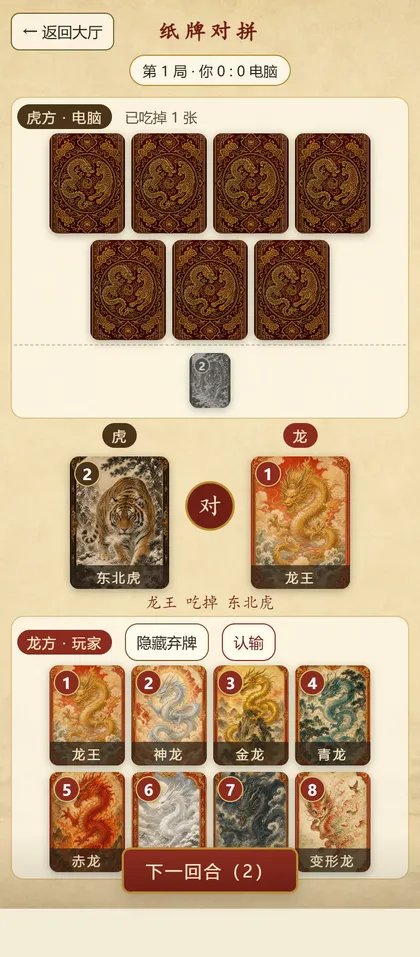
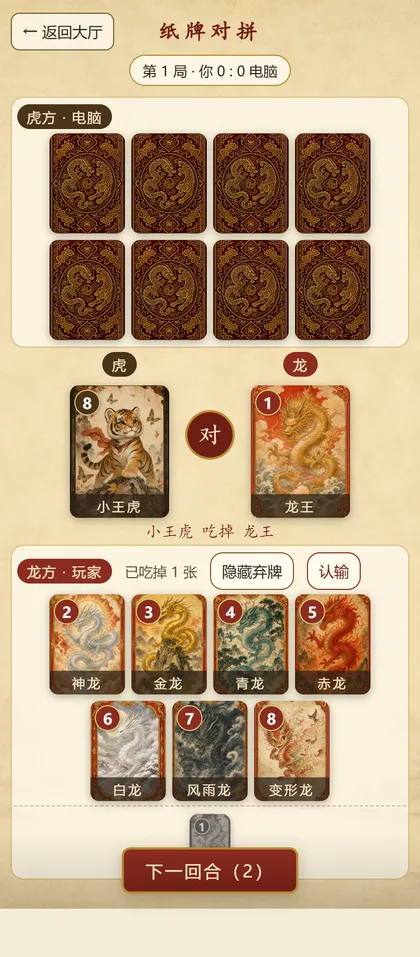
打包产物移到 output/ 目录；适配说明更新音效设计与产物路径；刷新手机截图

diff --git a/小红书小工具适配说明.md b/小红书小工具适配说明.md
@@ -177,8 +177,8 @@ node scripts/make-icons.mjs
 
 ## 声音系统（零媒体文件）
 
-BGM 与四种音效（龙吟 / 虎啸 / 同归于尽 / 和棋）全部由 `src/audio/sound.ts`
-在运行时用 Web Audio 合成，包里没有任何音频文件。这么做的原因：
+BGM 与六种音效全部由 `src/audio/sound.ts` 在运行时用 Web Audio 合成，
+包里没有任何音频文件。这么做的原因：
 
 - 一段 1 分钟 BGM 压成 mp3 也要 0.7-1MB，会把 zip 从 1.01MB 直推向 2MB 建议线；
 - 容器 CSP 禁止 `data:` / `blob:` 媒体源，运行时生成的音频没法喂给 `<audio>`，
@@ -190,14 +190,20 @@ BGM 与四种音效（龙吟 / 虎啸 / 同归于尽 / 和棋）全部由 `src/a
 - 所有音色在首次用户手势时**预渲染进 AudioBuffer**（古筝拨弦用 Karplus-Strong
   算法，音效用逐采样加法合成），之后播放只是 buffer 调度。刻意不用
   ScriptProcessorNode 实时生成——棋盘困难 AI 会阻塞主线程约 1 秒，实时路径必爆音。
-- BGM 是 A 羽调五声音阶的 64 拍循环，调度器提前 3.2 秒排音符，AI 占住主线程
+- BGM 是 A 羽调五声音阶的 64 拍循环（84 BPM，基本一拍一音；首版 66 BPM
+  大量空拍，实测过于缓慢低沉），调度器提前 3.2 秒排音符，AI 占住主线程
   时音乐不断。
+- 音效设计走过一次弯路：首版用合成的"龙吟""虎啸"拟声配吃子，实测很难听——
+  加法合成模拟兽吼的失真感在手机扬声器上只剩噪。现版全部改为简短乐音：
+  龙方吃子是三连升调铃音、虎方是两连降调木鱼声（一升一降好分辨），终局不再
+  按阵营播吼声，而按**玩家胜负**播军号胜利号 / 下行失落乐句。
 - 自动播放策略：`main.tsx` 监听 `pointerdown` 调 `ensureAudio()`，首次手势建
   AudioContext，后续手势负责唤醒被容器挂起的上下文；`visibilitychange` 时挂起/
   恢复，符合平台「不可见时停媒体」的性能规范。
 - `AudioContext` 不在平台禁用能力清单内，构建自检的 28 项扫描继续通过；
   Chrome 61 走 `webkitAudioContext` 回退。
-- 音乐、音效开关在大厅底部，偏好存 localStorage（`longhu:music` / `longhu:sfx`）。
+- 音乐、音效开关在独立的设置页（大厅底部"设置"进入），偏好存
+  localStorage（`longhu:music` / `longhu:sfx`）。
 
 ## 打包与校验
 
@@ -207,6 +213,7 @@ npm run build:xhs
 
 流程：`vite build` → 牌面图瘦身 → 结构与合规自检 → 官方审计 `dist` → 压 zip →
 官方审计 zip → 输出校验摘要。任一项不通过即以非零码退出。
+zip 产物固定生成在 `output/龙虎斗-小红书小工具.zip`（`output/` 不入库）。
 
 自检脚本（`scripts/build-xhs.mjs`）覆盖的检查：入口位置、文件类型白名单、无
 source map、`index.html` 的 DOCTYPE / lang / charset / viewport、无 `type="module"`、
